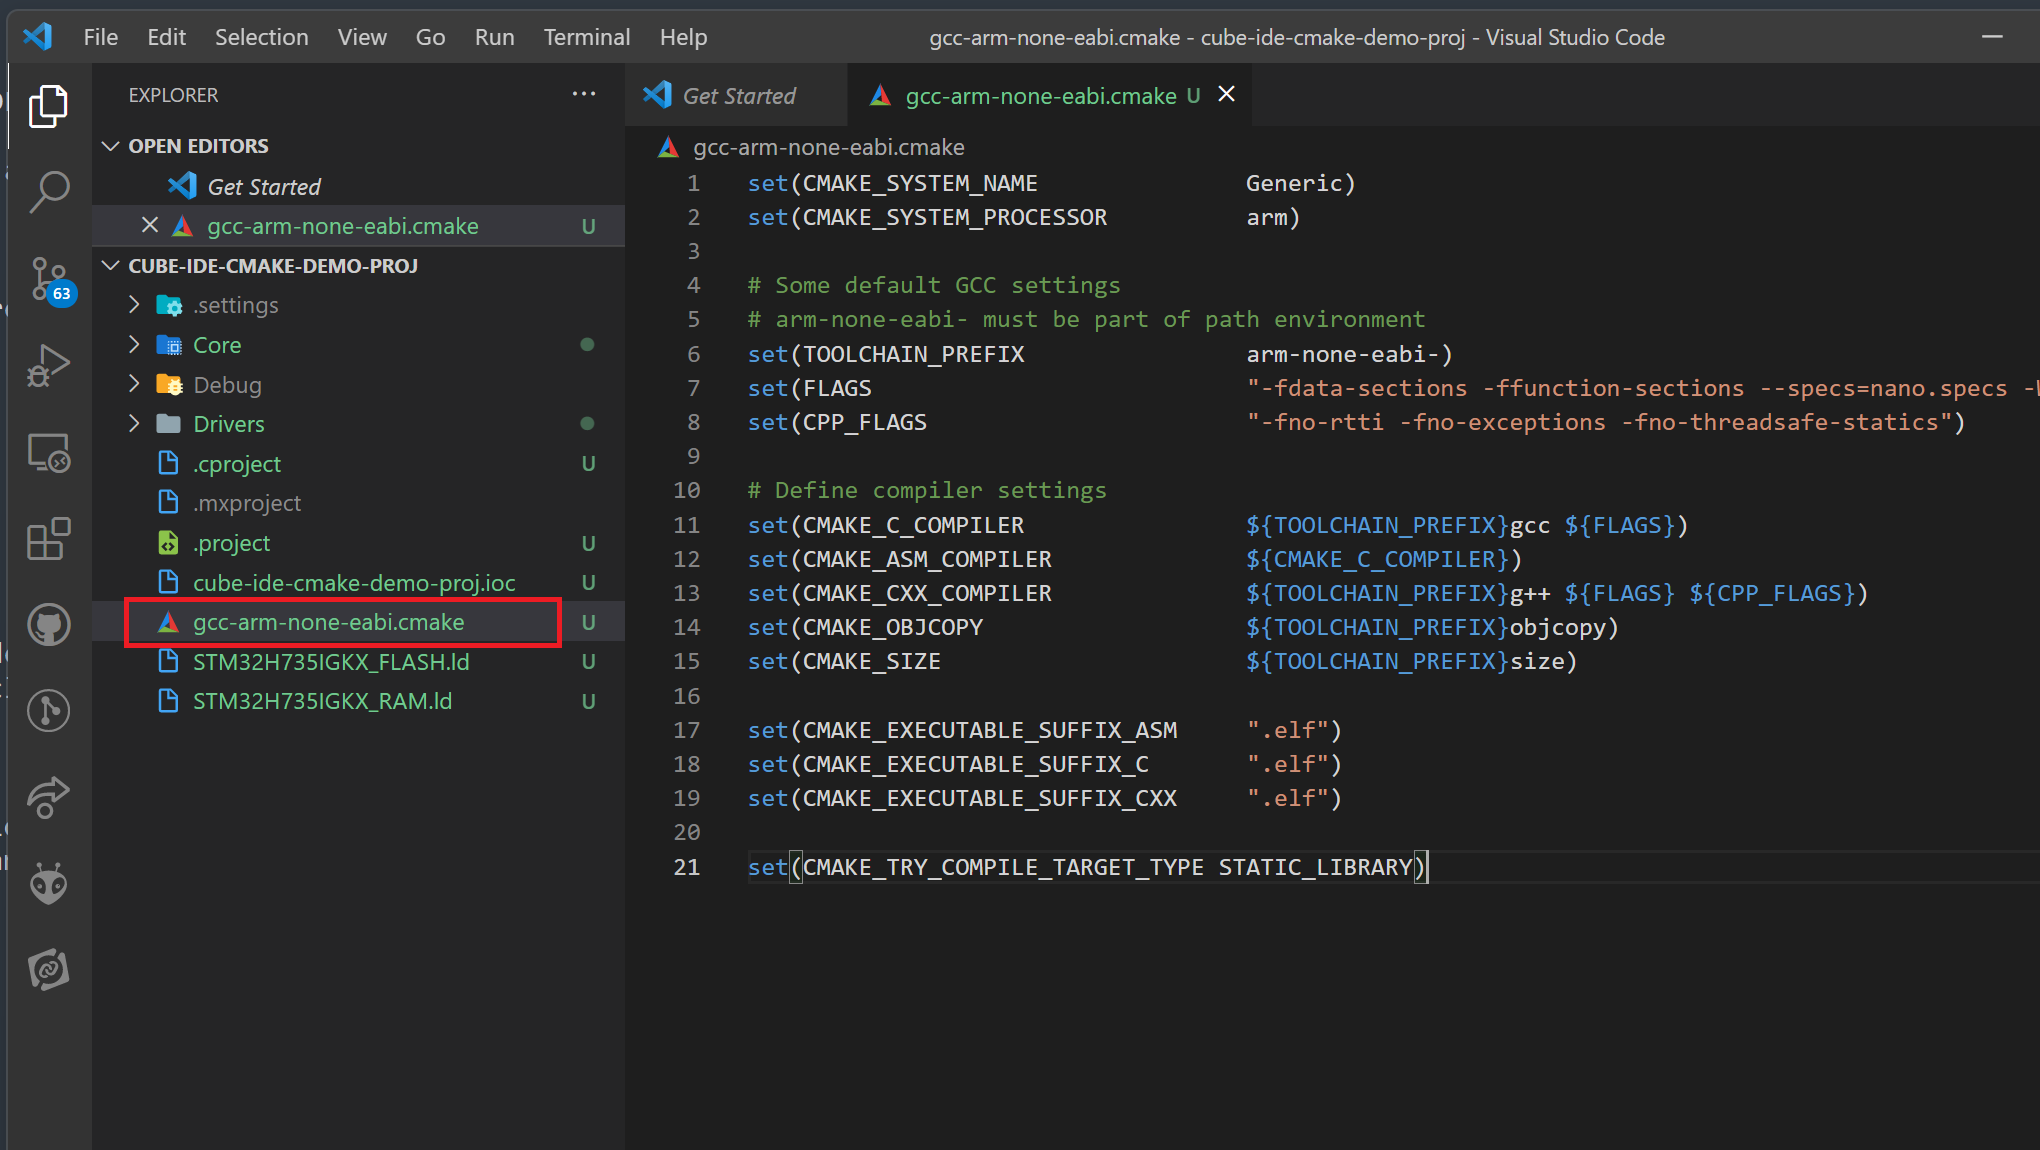
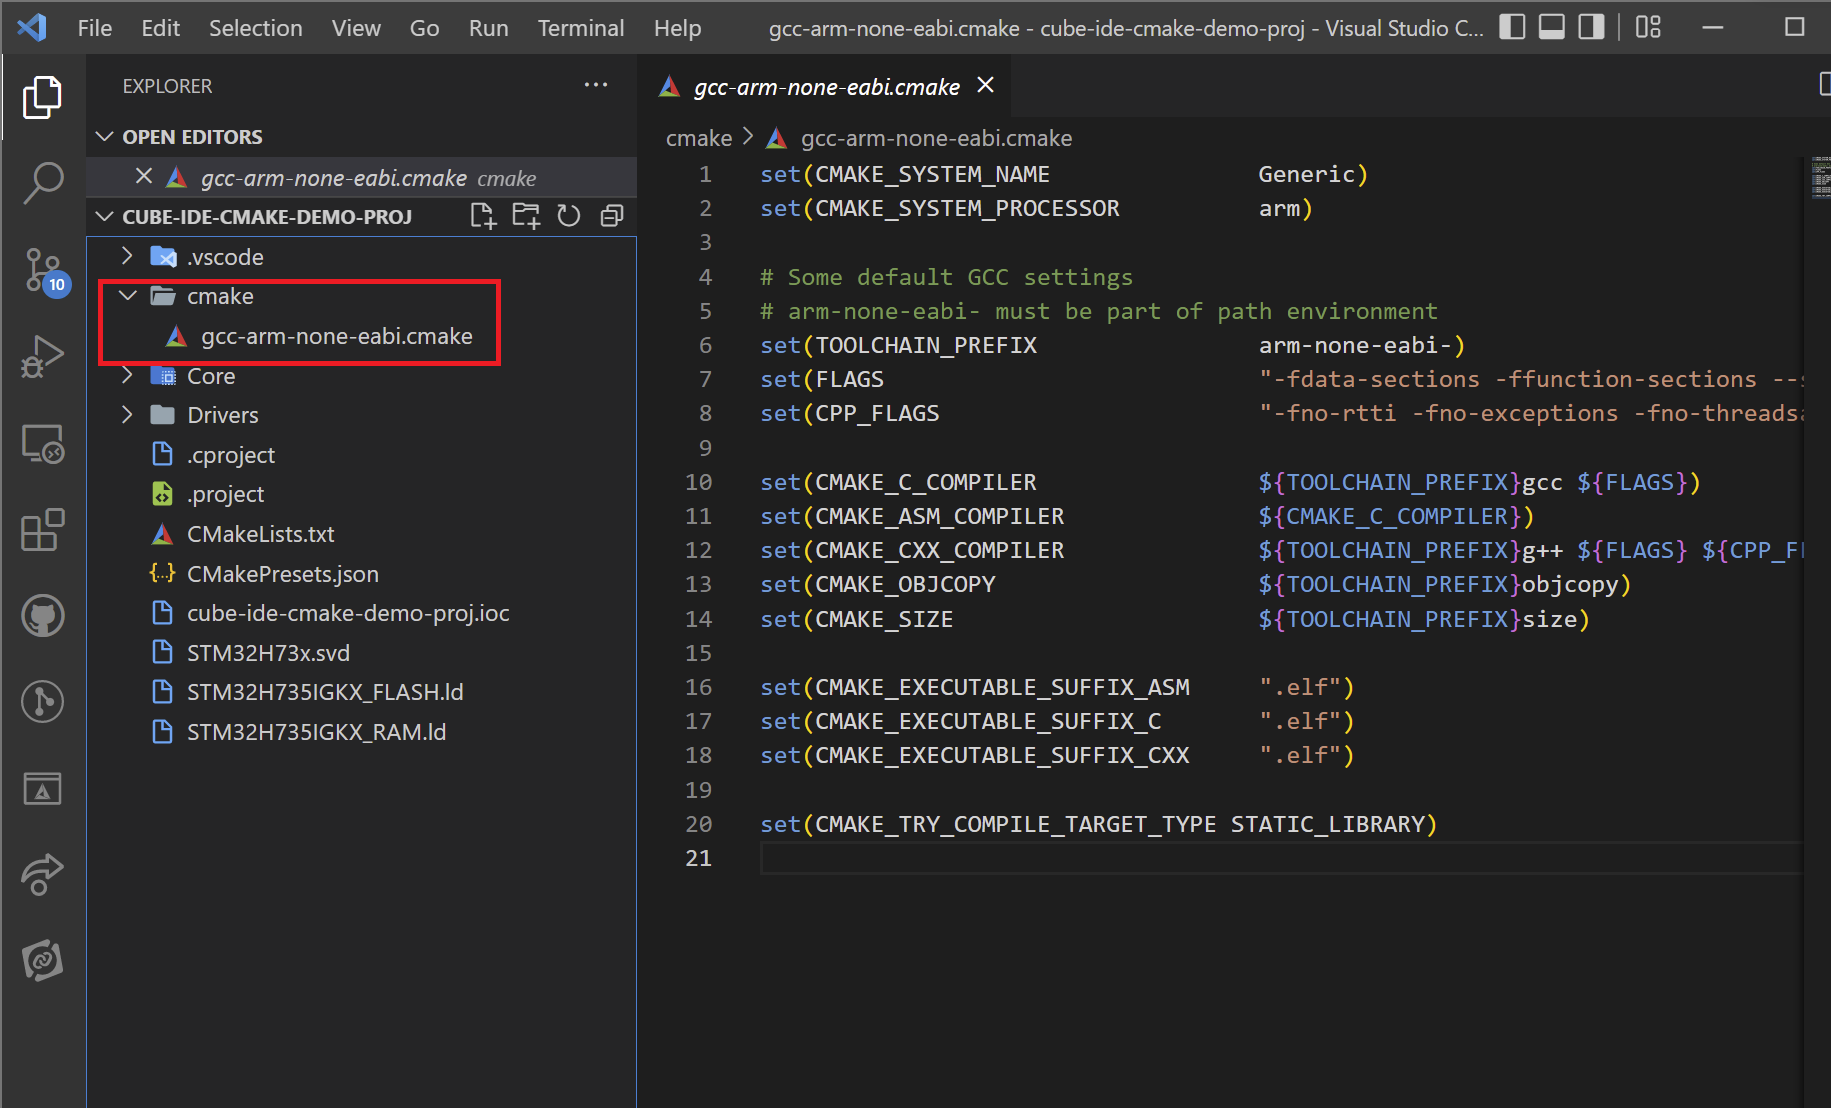
New CMake with Preset

diff --git a/README.md b/README.md
@@ -74,15 +74,14 @@ Output shall be something similar to
 
 ## Visual Studio Code
 
-Download and install [VSCode](https://code.visualstudio.com/)
-
+Download and install [VSCode](https://code.visualstudio.com/). Once installed and opened, window will look similar to the one below.
 ![Visual Studio Code first time](docs/images/vscode-first-time.png)
 
 ## Visual Studio Code extensions
 
 *Visual Studio Code* is lightweight text editor with capability to enlarge it using extensions.
 
-List of useful *Cortex-M debugging with CMake*:
+List of useful extensions for STM32 development using CMake:
 
 - `ms-vscode.cpptools`: Syntax highlighting and other core features for C/C++ development
 - `ms-vscode.cmake-tools`: CMake core tools, build system generator tool
@@ -106,8 +105,7 @@ code --install-extension zixuanwang.linkerscript
 
 ![VSCode installed plugins](docs/images/vscode-plugins-installed.png)
 
-Alternative way is to use Extension search GUI and manually install all extensions.
-Once installed, that should be your minimum list of extensions.
+Alternative way is to use *Extension search GUI* and manually install from there.
 
 ![VSCode installed plugins](docs/images/vscode-plugins-installed-preview.png)
 
@@ -161,14 +159,12 @@ This is preferred STM32 development studio, developed and maintained by STMicroe
 
 # CMake configuration
 
-Aside STM32CubeIDE, developers use different tools for STM32, such as Keil or IAR compilers.
+It is expected that project to develop in VSCode has been created. We will move forward for GCC compiler, but others could be used too.
 
 With release of Visual Studio Code, many developers use the tool for many programming languages and fortunately can also develop STM32 applications with single tool.
 If you are one of developers liking VSCode, most elegant way to move forward is to transfer STM32CubeIDE-based project to *CMake*, develop code in VSCode and compile with Ninja build system using GCC compiler. It is fast and lightweight.
 
-> Development in VSCode is for intermediate or experienced users. I suggest to all STM32 beginners to stay with STM32CubeIDE toolchain as it will be very easy to move forward and come to VSCode topic later.
-
-Let's start with CMake setup for project description.
+> Development in VSCode is for intermediate or experienced users. I suggest to all STM32 beginners to stay with *STM32CubeIDE* development toolchain. It will be very easy to move forward and come to VSCode topic later.
 
 ## Prepare CMakeLists.txt file
 
@@ -186,25 +182,25 @@ Essential things described in `CMakeLists.txt` file:
 - Compilation defines, or sometimes called *preprocessor defines* (`-D`)
 - Cortex-Mxx and floating point settings for instruction set generation
 
-## Open project in VSCode
+## Open VSCode in project root folder
 
-We will configure all files inside VSCode directly as it has its own editor.
+Visual Studio Code has been installed and will be used as further file editor.
 
-Open STM32CubeMX/STM32CubeIDE generated project's root folder in VSCode.
+Find your generated project path and open folder with VSCode:
 
 - Option 1: Go to the folder with explorer, then right click and select `Open in Code`.
 - Option 2: Alternatively, open VScode as new empty solution and add folder to it manually. Use `File -> Open Folder...` to open folder
-- Option 3: Go to folder with cmd or powershell tool and type `code .` to run command
+- Option 3: Go to folder with cmd or powershell tool and run `code .`
 
 Final result should look similar to the one below
 ![VSCode - Folder is open](docs/images/vscode-1.png)
 
 ## Toolchain information
 
-As mentioned before, one of the things we need for CMake is toolchain information.
+CMake needs to be aware about Toolchain we would like to use to finally compile the project with.
 As same toolchain is usually reused among different projects, it is advised to create this part in separate file for easier reuse. These are generic compiler settings and not directly linked to projects itself.
 
-A simple `.cmake` can be used and later reused among projects. I am using name `gcc-arm-none-eabi.cmake` for this tutorial and below is its example:
+A simple `.cmake` file can be used and later reused among your various projects. I am using name `cmake/gcc-arm-none-eabi.cmake` for this tutorial and below is its example:
 
 ```cmake
 set(CMAKE_SYSTEM_NAME               Generic)
@@ -230,10 +226,10 @@ set(CMAKE_EXECUTABLE_SUFFIX_CXX     ".elf")
 set(CMAKE_TRY_COMPILE_TARGET_TYPE STATIC_LIBRARY)
 ```
 
-Create a file in the root of the folder.
+Create a file in the `cmake/` folder of root project directory.
 ![VSCode - 2 - CMake - Toolchain](docs/images/vscode-2-cmake-toolchain.png)
 
-> If CMake highlighter plugin is installed, VSCode will nicely colorize CMake commands for you
+> If CMake highlighter plugin is installed, VSCode will nicely highlight CMake commands for you
 
 Toolchain setup is complete. You can freely close the file and move to next step.
 
@@ -355,10 +351,9 @@ add_custom_command(TARGET ${EXECUTABLE} POST_BUILD
 )
 ```
 
-Now we need to fill it properly.
-Source files are the same as in STM32CubeIDE project. You can check previous image with highlighted sources in yellow color.
+Source files are the same as in *STM32CubeIDE* project. You can check previous image with highlighted sources in yellow color.
 
-Symbols and include paths can be found in STM32CubeIDE under project settings. `2` pictures below are showing how it is in the case of demo project.
+Symbols and include paths can be found in *STM32CubeIDE* under project settings. `2` pictures below are showing how it is in the case of demo project.
 
 ![STM32CubeIDE - include paths](docs/images/cubeide-include-paths.png)
 ![STM32CubeIDE - symbols](docs/images/cubeide-symbols.png)
@@ -530,66 +525,89 @@ add_custom_command(TARGET ${EXECUTABLE} POST_BUILD
 In VSCode, well highlighted, it looks like this
 ![VSCode - final CMakeLists.txt](docs/images/vscode-3-cmake-final.png)
 
-CMake source files are now created and we are ready to proceed to build *build system input files*, in our case we will run CMake engine to prepare build structure for *Ninja build system*
+## Create preset CMakePresets.json file
 
-Open VSCode integrated terminal and run command
-```
-cmake -DCMAKE_EXPORT_COMPILE_COMMANDS=TRUE -DCMAKE_BUILD_TYPE=Debug -DCMAKE_TOOLCHAIN_FILE="gcc-arm-none-eabi.cmake" -Bbuild -G Ninja
-```
+`CMakePresets.json` is a special file, available since CMake `3.18` and provides definition for user configuration, similar to *debug* and *release* configuration known in eclipse. Having this file allows developer to quickly change between *debug* and *release* mode, or even between *bootloader* and *main application*, that is a common use case in embedded applications.
 
-It should well complete the execution with similar output as on picture below, plus a new `build` folder should be added to the project. If CMake cannot generate build instructions for Ninja, you will get list of errors in the same terminal window.
-![VSCode - final CMakeLists.txt](docs/images/vscode-3-cmake-run.png)
+> This tutorial will not focus on details about the file, rather here is the provided template file
 
-> Every time you modify `CMakeLists.txt` file, you have to run above command to re-generate build system instructions, otherwise your file changes are not affected for build system.
+File describes:
+- Path to build directory for each build configuration
+- Default build type for each configuration (*Debug*, *Release*, ...)
+- Path to `*.cmake* toolchain descriptor
 
-## Run CMake command automatically
+> `4` presets are configured in the template for each of the default *CMake* configurations. Always up-to-date file is available in `templates/CMakePresets.json`
 
-*CMake-Tools* extension can be configured to create and run aforementioned command automatically on every file modification, but requires some additional steps.
-
-> Personally I highly recommend to do these steps. It will boost your productivity in the future.
-
-Start by creating a new `.vscode/cmake-kits.json` file and copy below text to it. This is a special file name for *CMake-Tools* extension and defines list of *CMake Kits*, or list of compiler settings.
 ```json
-[
-    {
-      "name": "GCC arm-none-eabi - custom toolchain setup",
-      "compilers": {
-        "C": "arm-none-eabi-gcc",
-        "CXX": "arm-none-eabi-g++"
-      },
-      "toolchainFile": "gcc-arm-none-eabi.cmake"
-    }
-]
+{
+    "version": 3,
+    "configurePresets": [
+        {
+            "name": "default",
+            "hidden": true,
+            "generator": "Ninja",
+            "binaryDir": "${sourceDir}/build/${presetName}",
+            "toolchainFile": "${sourceDir}/cmake/gcc-arm-none-eabi.cmake",
+            "cacheVariables": {
+                "CMAKE_EXPORT_COMPILE_COMMANDS": "ON"
+            }
+        },
+        {
+            "name": "Debug",
+            "inherits": "default",
+            "cacheVariables": {
+                "CMAKE_BUILD_TYPE": "Debug"
+            }
+        },
+        {
+            "name": "RelWithDebInfo",
+            "inherits": "default",
+            "cacheVariables": {
+                "CMAKE_BUILD_TYPE": "RelWithDebInfo"
+            }
+        },
+        {
+            "name": "Release",
+            "inherits": "default",
+            "cacheVariables": {
+                "CMAKE_BUILD_TYPE": "Release"
+            }
+        },
+        {
+            "name": "MinSizeRel",
+            "inherits": "default",
+            "cacheVariables": {
+                "CMAKE_BUILD_TYPE": "MinSizeRel"
+            }
+        }
+    ]
+}
 ```
-![VSCode - CMake setup - quick start](docs/images/vscode-4-cmake-kits.png)
 
-> Restart VSCode after this step to refresh changes
+## Run CMake commands
 
-When you are back, hit `CTRL + SHIFT + P` to open command palette and type `CMake: Quick start`
-![VSCode - CMake setup - quick start](docs/images/vscode-5-cmake-quick-start.png)
+We have configured *CMake* with project information and are now ready to run the CMake commands.
 
-*CMake-Tools* extension will now get notified that there is `CMakeLists.txt` file and that it must take care of it. It will ask you to pick *CMake kit* (compiler setup to use with `CMakeLists.txt` file).
-Previously we created `cmake-kits.json` file with added custom config named `GCC arm-none-eabi - custom toolchain setup`. Extension will use our file to find custom kits.
+VSCode comes with *CMake Tools* plugin - a great helper for CMake commands. When installed, several options are available at the bottom of the VSCode active window
 
-If you do not see it on the list, force re-scan and try to select kit again.
-At the bottom of your VSCode window is *No active kit* that is clickable to change the kit.
-![VSCode - CMake setup - quick start](docs/images/vscode-6-scan-for-kits.png)
+![VSCode - Default CMake Tools plugin view](docs/images/vscode-5-cmake-tools-window-default.png)
 
-After rescan process, our custom kit is now available and can be selected
-![VSCode - CMake setup - kit selection](docs/images/vscode-7-kit-found.png)
+As you can see, there is no Configuration Preset selected.
 
-Very good, now that we reached so far, our next step is to again run CMake to generate build configuration for *Ninja*, mainly to test if it works well.
+> If you do not see such information, hit `CTRl + ALT + P` and run `CMake: Quick Start` command.
 
-There are `2` ways of executing CMake generation step:
+Next step is to select current *preset*. Click on *No Configure Preset Selected* to open a window on top side and select your *preset*. I selected *debug* for the sake of this tutorial.
 
-1. Use terminal and manually run command as mentioned before
-![VSCode - CMake setup - run cmake build system generation](docs/images/vscode-3-cmake-run.png)
-    - Command can be added to `tasks.json` file for future use
+![VSCode - Select application preset](docs/images/vscode-6-cmake-tools-select-preset.png)
 
-2. Or let *CMake-Tools* plugin to [re]generate it for you each time file `CMakeLists.txt` is changed and saved. Open `CMakeLists.txt` file, write & delete a character to mark file as *dirty*, finally save file with `CTRL + S`. *CMake-Tools* extension should run build system generation each time `CMakeLists.txt` file is saved. You should see this in `Output` tab
-![VSCode - CMake setup - auto run with Output information](docs/images/vscode-8-cmake-run-auto.png)
+When selected, text will change to selected *preset label*.
 
-For sure you can take a break or a beer at this point, and continue in `5` minutes. You did a great job so far.
+![VSCode - Preset selected](docs/images/vscode-7-cmake-tools-preset-selected-run-build.png)
+
+Next step is to hit *Build* button - as indicated with green rectangle. CMake will run commands:
+
+- Run build generator for selected preset
+- Actually build code with *Ninja*
 
 ## Build project with ninja
 
